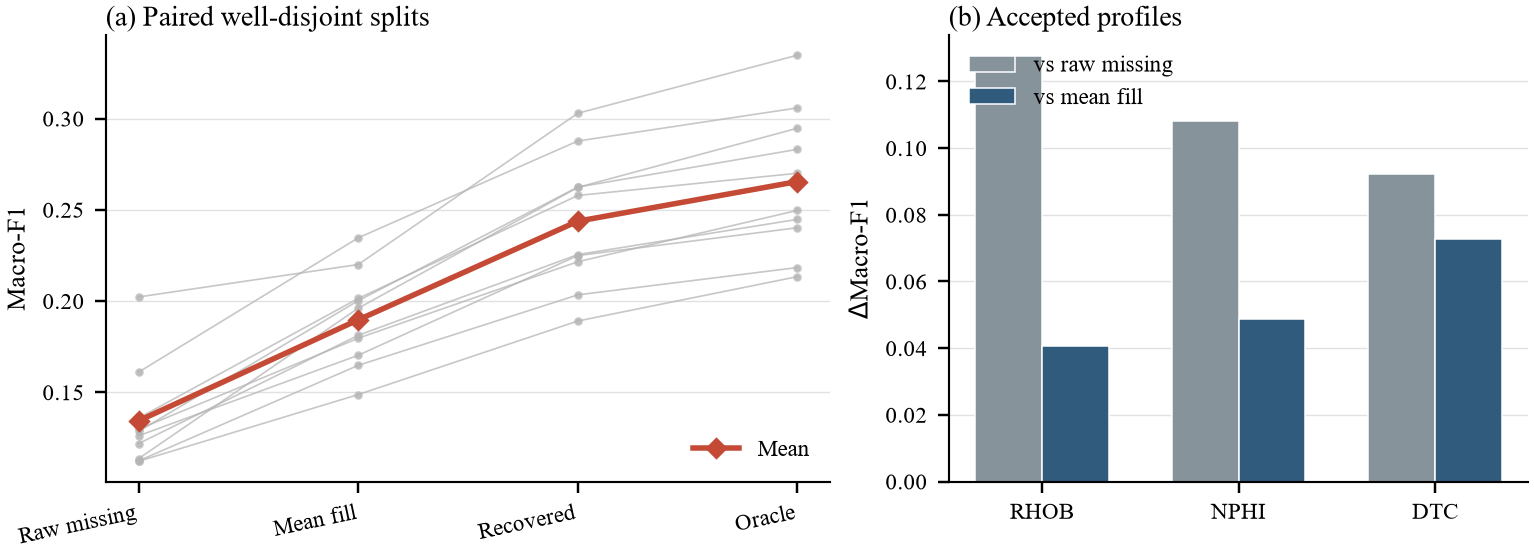
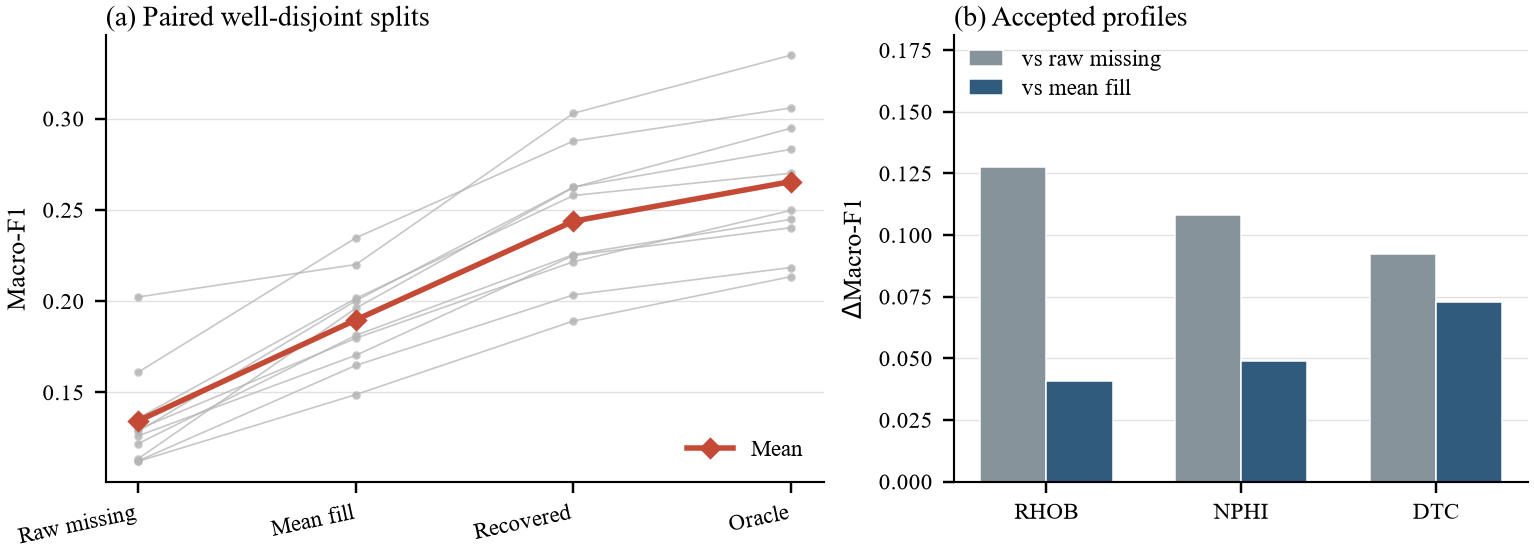
Fix Figure 4 legend overlap

diff --git a/manuscript_assets/make_assets.py b/manuscript_assets/make_assets.py
@@ -343,6 +343,7 @@ def make_fig4(raw: pd.DataFrame) -> None:
     features = ACCEPTED_FEATURES
     x = np.arange(len(features))
     width = 0.34
+    all_deltas = []
     for index, (baseline, color, label) in enumerate(
         [
             ("raw_missing", METHOD_COLOR["SAITS"], "vs raw missing"),
@@ -358,6 +359,7 @@ def make_fig4(raw: pd.DataFrame) -> None:
                 (raw.method == baseline) & (raw.feature == feature)
             ].set_index("seed").macro_f1
             deltas.append(float((cross - base).mean()))
+        all_deltas.extend(deltas)
         ax.bar(
             x + (index - 0.5) * width,
             deltas,
@@ -373,7 +375,14 @@ def make_fig4(raw: pd.DataFrame) -> None:
     ax.set_title("(b) Accepted profiles", loc="left", pad=3)
     ax.grid(axis="y", color="#E1E1E1", linewidth=0.45)
     ax.set_axisbelow(True)
-    ax.legend(frameon=False, loc="upper left")
+    ax.set_ylim(0, max(max(all_deltas) * 1.42, 0.02))
+    ax.legend(
+        frameon=False,
+        loc="upper left",
+        borderaxespad=0.25,
+        labelspacing=0.35,
+        handlelength=1.5,
+    )
     save_figure(fig, "fig4_downstream")
 
 
